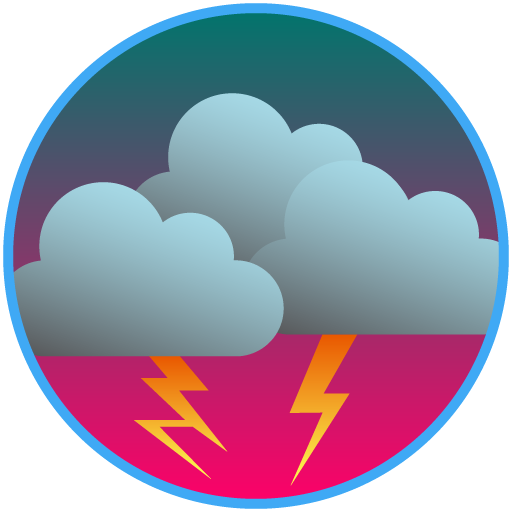
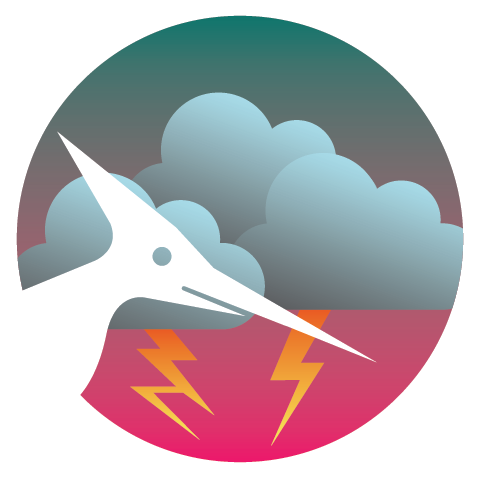
Updated images and project name for Dinowar

diff --git a/projects.html b/projects.html
@@ -43,9 +43,9 @@
 				</header>
 				<div class="container">
 					<section>
-						<h2>War Game [project name]</h2>
+						<h2>Dinowar</h2>
 						<a><img src="images/play.png" alt="A screenshot of our current dinosaur-themed project" width="300" height="200"/></a>
-						<p>War Game [project name] is a dinosaur-themed strategy game in a similar vein to <a href="https://play.google.com/store/apps/details?id=com.sgg.archipelago_kr">Archipelago</a>.</p>
+						<p>Dinowar is a dinosaur-themed strategy game in a similar vein to <a href="https://play.google.com/store/apps/details?id=com.sgg.archipelago_kr">Archipelago</a>.</p>
 						<p>The object of the game is to take over the territory of your opponents, which you do by launching dinosaurs at them. These dinosaurs travel by land, air and sea.</p>
 						<p>Currently it is a single-player game, but a multi-player version is in the pipeline!</p>
 					</section>

diff --git a/index.html b/index.html
@@ -47,7 +47,7 @@
 			<section id="one" class="wrapper style1">
 				<header class="major">
 					<h2>Coming soon...</h2>
-					<p>Dinosaurs at war, in a new mobile strategy game</p>
+					<p>Dinowar, dinosaurs at war in a new mobile strategy game</p>
 				</header>
 				<div class="container">
 					<div class="row">
